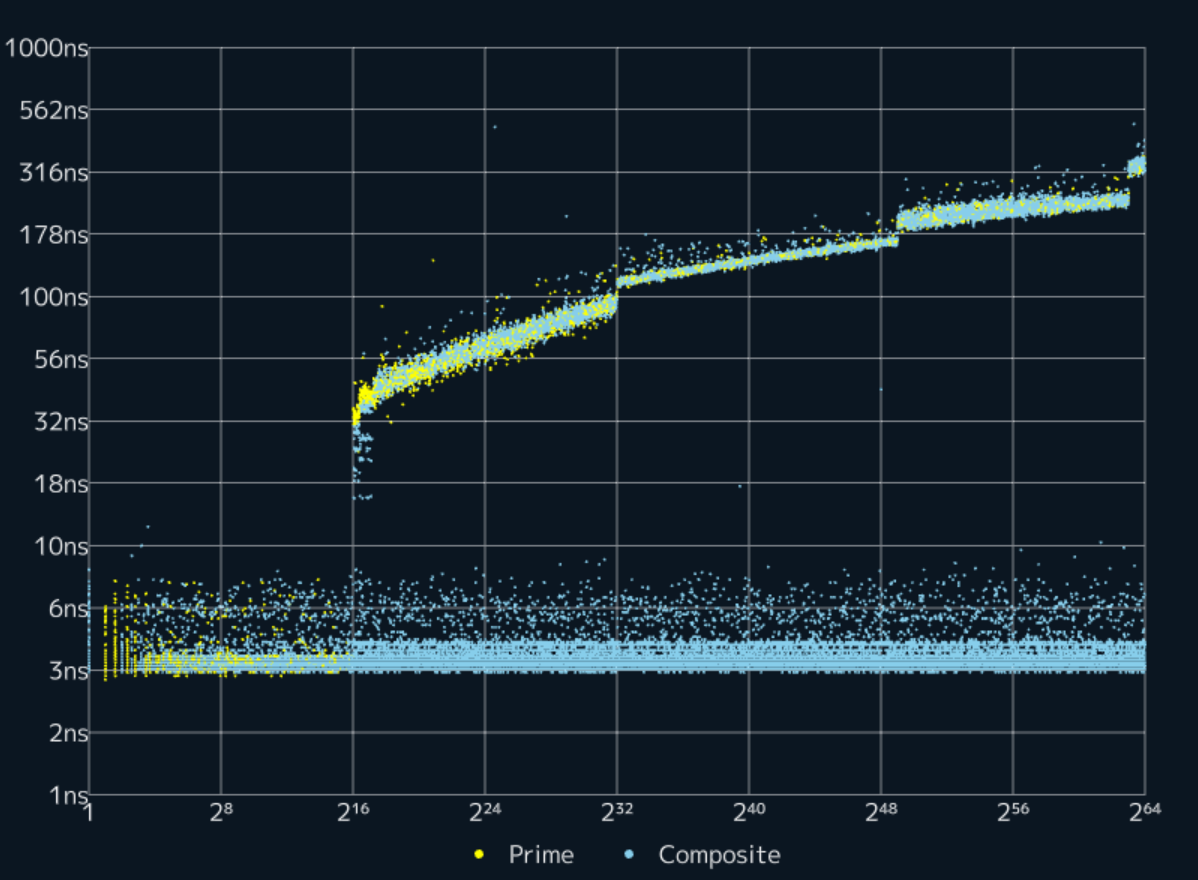
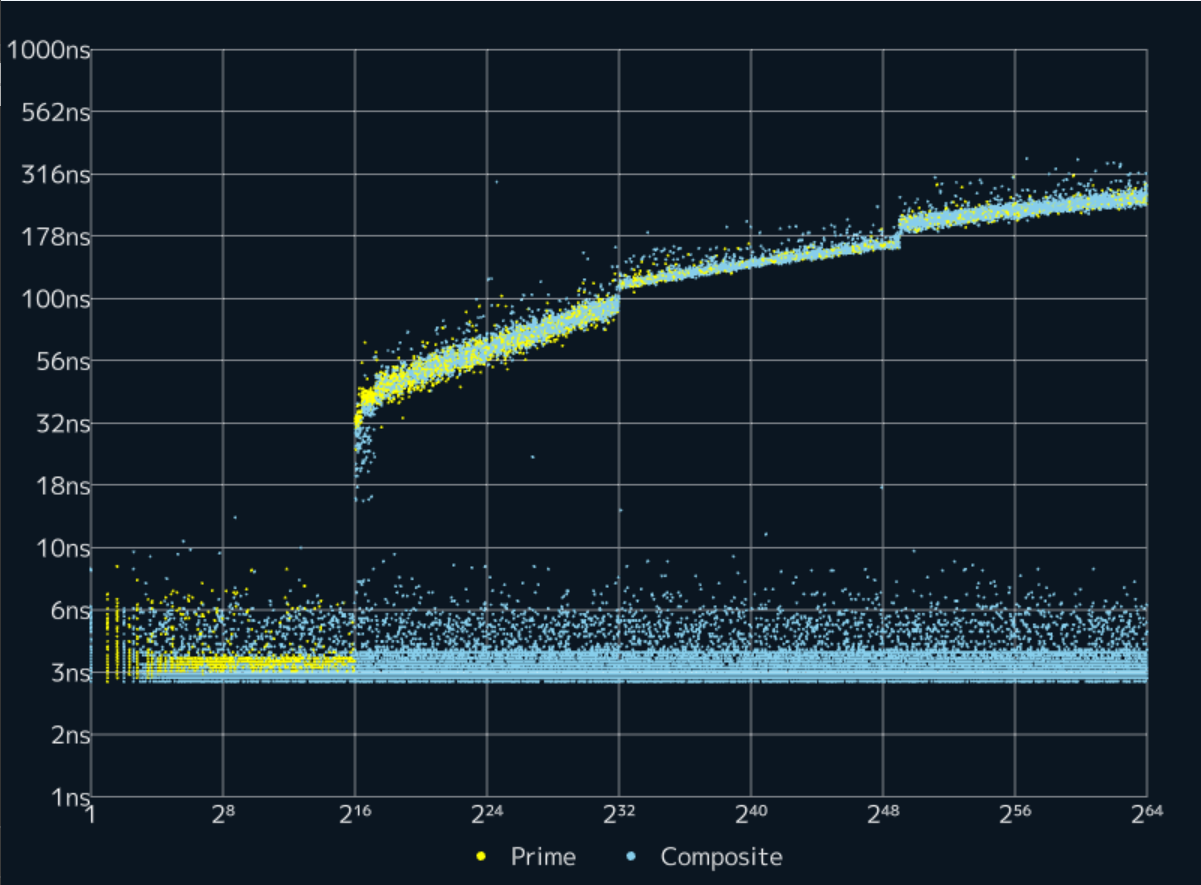
Update Montgomery

Changed region(s): [[0.0, 0.0307, 0.9574, 0.9818], [0.4015, 0.9511, 0.4942, 0.9818]]

diff --git a/libcpprime/internal/IsPrimeCommon.hpp b/libcpprime/internal/IsPrimeCommon.hpp
@@ -240,17 +240,13 @@ namespace internal {
         return x << l;
     }
 
-    template<std::int32_t Strict = 0> class MontgomeryModint64Impl {
+    template<bool Strict = false> class MontgomeryModint64Impl {
         std::uint64_t mod_ = 0, rs = 0, nr = 0, np = 0;
         LIBCPPRIME_CONSTEXPR std::uint64_t reduce(const std::uint64_t n) const noexcept {
             std::uint64_t q = n * nr;
-            if LIBCPPRIME_IF_CONSTEXPR (Strict == 1) {
+            if LIBCPPRIME_IF_CONSTEXPR (Strict) {
                 std::uint64_t m = Mulu128High(q, mod_);
-                return m <= mod_ ? mod_ - m : 0 - m;
-            } else if LIBCPPRIME_IF_CONSTEXPR (Strict == 2) {
-                auto m = Mulu128(q, mod_);
-                std::uint64_t t = m.high + std::uint64_t(m.low + n < m.low);
-                return t - mod_ * (t >= mod_);
+                return m == 0 ? 0 : mod_ - m;
             } else {
                 std::uint64_t m = Mulu128High(q, mod_);
                 return mod_ - m;
@@ -260,15 +256,10 @@ namespace internal {
             auto tmp = Mulu128(a, b);
             std::uint64_t d = tmp.high, c = tmp.low;
             std::uint64_t q = c * nr;
-            if LIBCPPRIME_IF_CONSTEXPR (Strict == 1) {
+            if LIBCPPRIME_IF_CONSTEXPR (Strict) {
                 std::uint64_t m = Mulu128High(q, mod_);
                 std::uint64_t t = d - m;
-                return t >= mod_ ? t + mod_ : t;
-            } else if LIBCPPRIME_IF_CONSTEXPR (Strict == 2) {
-                auto m = Mulu128(q, mod_);
-                std::uint64_t t = m.high + std::uint64_t(m.low + c < m.low);
-                if (t >= mod_ - d) return t + d - mod_;
-                else return t + d;
+                return d < m ? t + mod_ : t;
             } else {
                 std::uint64_t m = Mulu128High(q, mod_);
                 return d + mod_ - m;
@@ -283,7 +274,6 @@ namespace internal {
             rs = Divu128(0xffffffffffffffff % n, 0 - n, n).low;
             nr = n;
             for (std::uint32_t i = 0; i != 5; ++i) nr *= 2 - n * nr;
-            if LIBCPPRIME_IF_CONSTEXPR (Strict == 2) nr = 0 - nr;
             np = reduce(rs);
         }
         LIBCPPRIME_CONSTEXPR std::uint64_t build(std::uint32_t x) const noexcept { return reduce(x % mod_, rs); }

diff --git a/libcpprime/IsPrime.hpp b/libcpprime/IsPrime.hpp
@@ -237,8 +237,8 @@ namespace internal {
 206,119,3406,6754,309,3909,646,3677,3514,8797,1435,301,9215,3730,7282,165,3381,303,6369,2627,115,761,3695,1233,1297,1803,1130,122,511,58,6426,1389,1433,9102,943,2795,13162,9905,899,9740,8719,517,5115,4977,1486,8259,7163,13549,7561,305,119,973,7698,5619,5326,5772,32611,8846,1709,4641,782,2503,3905,4051,4923,165,16132,16827,1913,6590,322,741,522,7666,1655,5087,468,8541,1169,4455,22993,2801,6623,446,1979,10923,3503,32053,523,5721,9608,955,11766,49919,1982,66,3347,9508,439,145,5697,1026,1569
     };
     // clang-format on
-    template<std::int32_t Strict> LIBCPPRIME_CONSTEXPR bool IsPrime64(const std::uint64_t x) noexcept {
-        MontgomeryModint64Impl<Strict> mint;
+    LIBCPPRIME_CONSTEXPR bool IsPrime64(const std::uint64_t x) noexcept {
+        MontgomeryModint64Impl<true> mint;
         mint.set(x);
         const std::int32_t S = CountrZero(x - 1);
         const std::uint64_t D = (x - 1) >> S;
@@ -304,8 +304,7 @@ LIBCPPRIME_CONSTEXPR bool IsPrime(std::uint64_t n) noexcept {
     else {
         if ((n & 1) == 0 || 6148914691236517205u >= 12297829382473034411u * n || 3689348814741910323u >= 14757395258967641293u * n || 2635249153387078802u >= 7905747460161236407u * n || 1676976733973595601u >= 3353953467947191203u * n || 1418980313362273201u >= 5675921253449092805u * n || 1085102592571150095u >= 17361641481138401521u * n) return false;
         if (n <= 0xffffffff) return internal::IsPrime32(n);
-        else if (n < (std::uint64_t(1) << 63)) return internal::IsPrime64<1>(n);
-        else return internal::IsPrime64<2>(n);
+        else return internal::IsPrime64(n);
     }
 }
 

diff --git a/libcpprime/IsPrimeNoTable.hpp b/libcpprime/IsPrimeNoTable.hpp
@@ -163,8 +163,8 @@ namespace internal {
         } else return test3(2ull, 325ull, 9375ull) && test4(28178ull, 450775ull, 9780504ull, 1795265022ull);
     }
 
-    template<std::int32_t Strict> LIBCPPRIME_CONSTEXPR bool IsPrime64BailliePSW(const std::uint64_t x) noexcept {
-        MontgomeryModint64Impl<Strict> mint;
+    LIBCPPRIME_CONSTEXPR bool IsPrime64BailliePSW(const std::uint64_t x) noexcept {
+        MontgomeryModint64Impl<true> mint;
         mint.set(x);
         const std::int32_t S = CountrZero(x - 1);
         const std::uint64_t D = (x - 1) >> S;
@@ -228,8 +228,7 @@ LIBCPPRIME_CONSTEXPR bool IsPrimeNoTable(std::uint64_t n) noexcept {
         if ((n & 1) == 0 || 6148914691236517205u >= 12297829382473034411u * n || 3689348814741910323u >= 14757395258967641293u * n || 2635249153387078802u >= 7905747460161236407u * n || 1676976733973595601u >= 3353953467947191203u * n || 1418980313362273201u >= 5675921253449092805u * n || 1085102592571150095u >= 17361641481138401521u * n) return false;
         if (n <= 0xffffffff) return internal::IsPrime32(n);
         else if (n < (std::uint64_t(1) << 62)) return internal::IsPrime64MillerRabin(n);
-        else if (n < (std::uint64_t(1) << 63)) return internal::IsPrime64BailliePSW<1>(n);
-        else return internal::IsPrime64BailliePSW<2>(n);
+        else return internal::IsPrime64BailliePSW(n);
     }
 }
 

diff --git a/README.md b/README.md
@@ -78,6 +78,8 @@ g++ -I ./libcpprime -O3 Main.cpp
 
 # Releases
 
+- 2024/12/31 ver 1.2.7
+  - Improve performance
 - 2024/12/30 ver 1.2.6
   - Improve performance
 - 2024/12/29 ver 1.2.5
